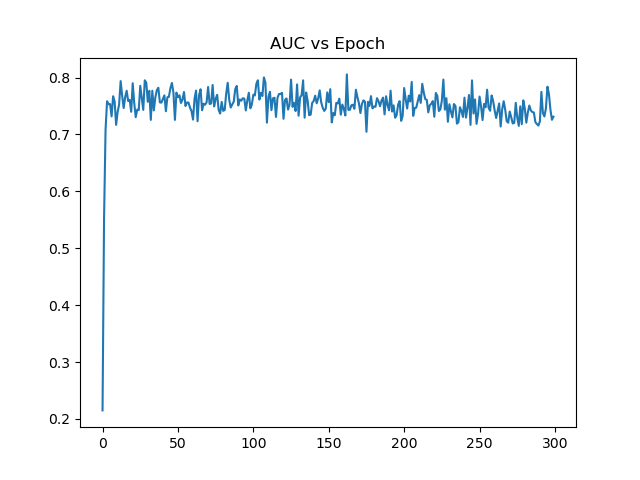
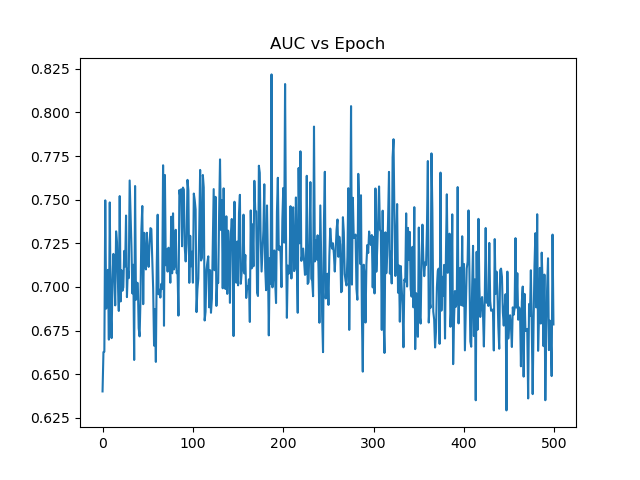
Changes to topology_encoder

diff --git a/topology_encoder.py b/topology_encoder.py
@@ -42,7 +42,7 @@ class KAN_linear(nn.Module):
             return y.view(*orig_shape[:-1], self.outdim)
     
 class KA_autoencoder(nn.Module):
-    def __init__(self, in_feat, hidden_feat, latent_feat, out_feat, num_harmonics, e_num_layers, use_bias=False):
+    def __init__(self, in_feat, hidden_feat, latent_feat, num_harmonics, e_num_layers, use_bias=False):
         super(KA_autoencoder, self).__init__()
         encoder_modules = []
         encoder_modules.append(KAN_linear(in_feat, hidden_feat, num_harmonics, addbias=use_bias))
@@ -54,66 +54,79 @@ class KA_autoencoder(nn.Module):
         self.decoder = nn.Sequential(
             KAN_linear(latent_feat, in_feat, num_harmonics, addbias=use_bias)
         )
-        self.predictor = nn.Sequential( 
-            KAN_linear(latent_feat,hidden_feat,num_harmonics),
-            KAN_linear(hidden_feat, out_feat, num_harmonics),
-            nn.Sigmoid()
-        )
 
     def forward(self, features):
         z = self.encoder(features)
         out = self.decoder(z)
-        pred = self.predictor(z)
-        return out, pred
-    
+        return out 
+
     def get_grad_norm_weights(self) -> nn.Module:
         return self.parameters()
+    
+class KA_latentpred(nn.Module):
+    def __init__(self, latent_feat, hidden_feat, out_feat, num_harmonics):
+        super(KA_latentpred, self).__init__()
+        self.predictor = nn.Sequential( 
+            KAN_linear(latent_feat,hidden_feat,num_harmonics),
+            KAN_linear(hidden_feat, hidden_feat, num_harmonics),
+            KAN_linear(hidden_feat, out_feat, num_harmonics),
+            nn.Sigmoid()
+        )
+    def forward(self, latent):
+        return self.predictor(latent)
+    
+class LatentPass(nn.Module):
+    def __init__(self, encoder, predictor):
+        super().__init__()
+        self.encoder = encoder
+        self.predictor = predictor
+        for param in self.encoder.parameters():
+            param.requires_grad = False
+    def forward(self, x):
+        z = self.encoder(x)
+        return self.predictor(z)
     
 class CustomDataset(Dataset):
     def __init__(self, label_list, graph_list):
         self.labels = label_list
         self.graphs = graph_list
         self.device = torch.device('cpu') 
-
     def __len__(self):
         return len(self.labels)
-
     def __getitem__(self, index):
         label = self.labels[index].to(self.device)
-        
-
-        graph = self.graphs[index].to(self.device)
-        
+        graph = self.graphs[index].to(self.device)   
         return label, graph
 
 
-def train(model, device, train_loader, valid_loader, optimizer,recon_loss_fn,pred_loss_fn):
+def train(model, device, train_loader, valid_loader, optimizer,loss_fn,encoding=True):
     model.train()
     total_train_loss = 0.0
     for labels, g in train_loader:
-        y = labels.to(device)
+        y = labels.to(device).float()
         optimizer.zero_grad()     
         input_e = g.to(device)          
-        out_e, latent_pred = model(input_e)                      
-        recon_loss = recon_loss_fn(out_e, input_e)      
-        pred_loss = pred_loss_fn(latent_pred.float(),y.float()) 
-        loss = recon_loss + pred_loss
+        out= model(input_e)     
+        if encoding:                 
+            loss = loss_fn(out, input_e)      
+        else:
+            loss = loss_fn(out, y)   
         loss.backward()
         optimizer.step()
         total_train_loss += loss.item()               
-
     model.eval()
     total_loss_val = 0.0
     with torch.no_grad():
         for labels, g in valid_loader:
+            y = labels.to(device).float()
             input_e = g.to(device)          
-            out_e, latent_pred = model(input_e)                      
-            recon_loss = recon_loss_fn(out_e, input_e)      
-            pred_loss = pred_loss_fn(latent_pred.float(),y.float()) 
-            loss = recon_loss + pred_loss
+            out= model(input_e)                      
+            if encoding:                 
+                loss = loss_fn(out, input_e)      
+            else:
+                loss = loss_fn(out, y)       
             total_loss_val += loss.item()
     return total_train_loss, total_loss_val
-
 
 def predicting(model, device, data_loader):
     model.eval()
@@ -123,8 +136,8 @@ def predicting(model, device, data_loader):
         for labels, g in data_loader:
             y = labels.to(device)
             input_e = g.to(device)    
-            out_e, pred = model(input_e)    
-            all_preds.append(pred.view(-1))
+            out = model(input_e)    
+            all_preds.append(out.view(-1))
             all_labels.append(y.view(-1))
     total_preds = torch.cat(all_preds, 0).cpu()
     total_labels = torch.cat(all_labels, 0).cpu()
@@ -133,20 +146,15 @@ def predicting(model, device, data_loader):
 
 def collate_fn(batch):
     labels, eigvals = zip(*batch) 
-
     labels = torch.stack(labels)
-
     batched_graph = torch.stack(eigvals)
-
     return labels, batched_graph
 
 
 if __name__ == '__main__':
     datafile = 'bace'
-
     recon_loss_fn = nn.L1Loss()
     pred_loss_fn = nn.BCELoss()
-
     batch_size = 128
     train_ratio = 0.8
     vali_ratio = 0.1
@@ -195,9 +203,10 @@ if __name__ == '__main__':
     print("length of validation set:",len(loaded_valid_dataset))
     print("length of testing set:",len(loaded_test_dataset))
 
-    iters = 1
+    iters = 20
     lr = 10**-4
-    epochs = 300
+    epochs = 500
+    encoding_epochs = epochs
     num_harmonics = 1
     num_layers = 5
     if torch.cuda.is_available():
@@ -212,30 +221,45 @@ if __name__ == '__main__':
     for i in range(iters):
         set_seed(i)
         print('Iteration - ', i+1)
-        AUC_list = []
-        loss_list = []
-        vali_loss_list = []
-
-        model = KA_autoencoder(in_feat=10, hidden_feat=64, latent_feat=128, out_feat=1, 
-                        num_harmonics=num_harmonics, e_num_layers=num_layers, use_bias=False)
-        total_params = sum(p.numel() for p in model.parameters())
+        ae_model = KA_autoencoder(in_feat=10, hidden_feat=64, latent_feat=128, 
+                num_harmonics=num_harmonics, e_num_layers=num_layers, use_bias=False)
+        latent_model = KA_latentpred(latent_feat=128,hidden_feat=64,out_feat=1,num_harmonics=num_harmonics)
+        pred_model = LatentPass(ae_model.encoder,latent_model)
+        total_params = sum(p.numel() for p in ae_model.parameters()) + sum(p.numel() for p in latent_model.parameters()) 
         print(f"Total parameters: {total_params}")
 
-        model = model.to(device)
-        optimiser = torch.optim.Adam(model.parameters(), lr=lr)
-        #scheduler = StepLR(optimiser, step_size=100, gamma=0.1)
+        ae_model = ae_model.to(device)
+        latent_model = latent_model.to(device)
+        pred_model = pred_model.to(device)
+        ae_optimiser = torch.optim.Adam(ae_model.parameters(), lr=lr)
+        pred_optimiser = torch.optim.Adam(latent_model.parameters(), lr=lr)
+
+        #TRAINING AUTOENCODER 
+        for epoch in range(encoding_epochs):
+            train_loss,vali_loss = train(ae_model, device, loaded_train_loader, loaded_valid_loader, ae_optimiser,
+                                         loss_fn=recon_loss_fn,encoding=True)
+            if epoch % 10 == 0 :
+                print('AE training Epoch - ', epoch)
+                print('Train loss - ', train_loss)
+                print('Valid loss - ', vali_loss)
+        
+        #TRAINING LATENT PREDICTOR
+        loss_list =[]
+        vali_loss_list=[]
+        AUC_list=[]
         for epoch in range(epochs):
-            train_loss,vali_loss = train(model, device, loaded_train_loader, loaded_valid_loader, optimiser,
-                                         recon_loss_fn=recon_loss_fn, pred_loss_fn=pred_loss_fn)
-            AUC = predicting(model, device, loaded_test_loader)
+            train_loss,vali_loss = train(pred_model, device, loaded_train_loader, loaded_valid_loader, pred_optimiser,
+                                         loss_fn=pred_loss_fn,encoding=False)
+            AUC = predicting(pred_model,device,loaded_valid_loader)
             loss_list.append(train_loss)
             vali_loss_list.append(vali_loss)
             AUC_list.append(AUC)
             if epoch % 10 == 0 :
-                print('Epoch - ', epoch)
+                print('Prediction training Epoch - ', epoch)
                 print('Train loss - ', train_loss)
                 print('Valid loss - ', vali_loss)
                 print('AUC - ', AUC)
+        
         #torch.save(model.state_dict(), 'model.pth')
         if i == iters -1: 
             plt.plot(AUC_list)
